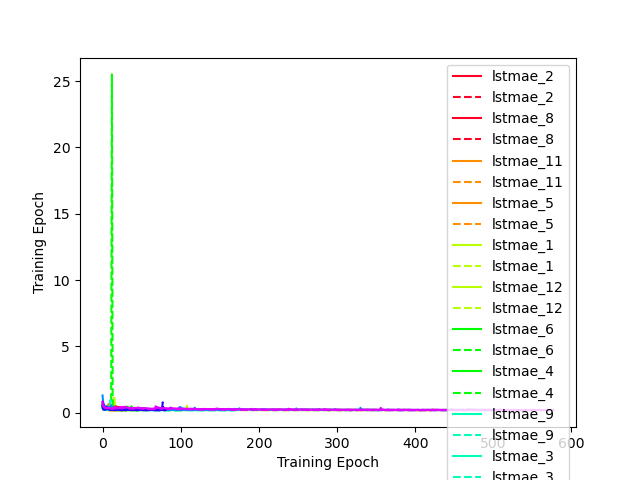
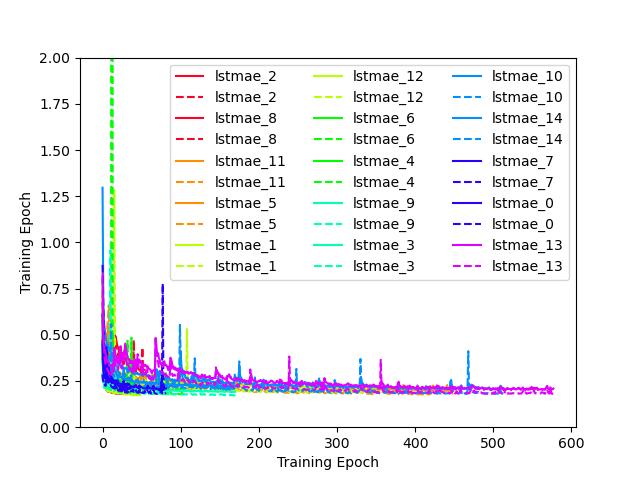
Quick plotting change

diff --git a/plot_learning_curves.py b/plot_learning_curves.py
@@ -35,7 +35,8 @@ if __name__=="__main__":
                 color=color, linestyle="solid")
         ax.plot(cdict["epoch"][i], cdict["val_mse"][i], label=models[i],
                 color=color, linestyle="dashed")
-    ax.legend()
+    ax.legend(ncol=3)
+    ax.set_ylim([0,2])
     ax.set_xlabel("Training Epoch")
     ax.set_ylabel("Training Epoch")
     plt.savefig("figures/lstmae_mse.png")
